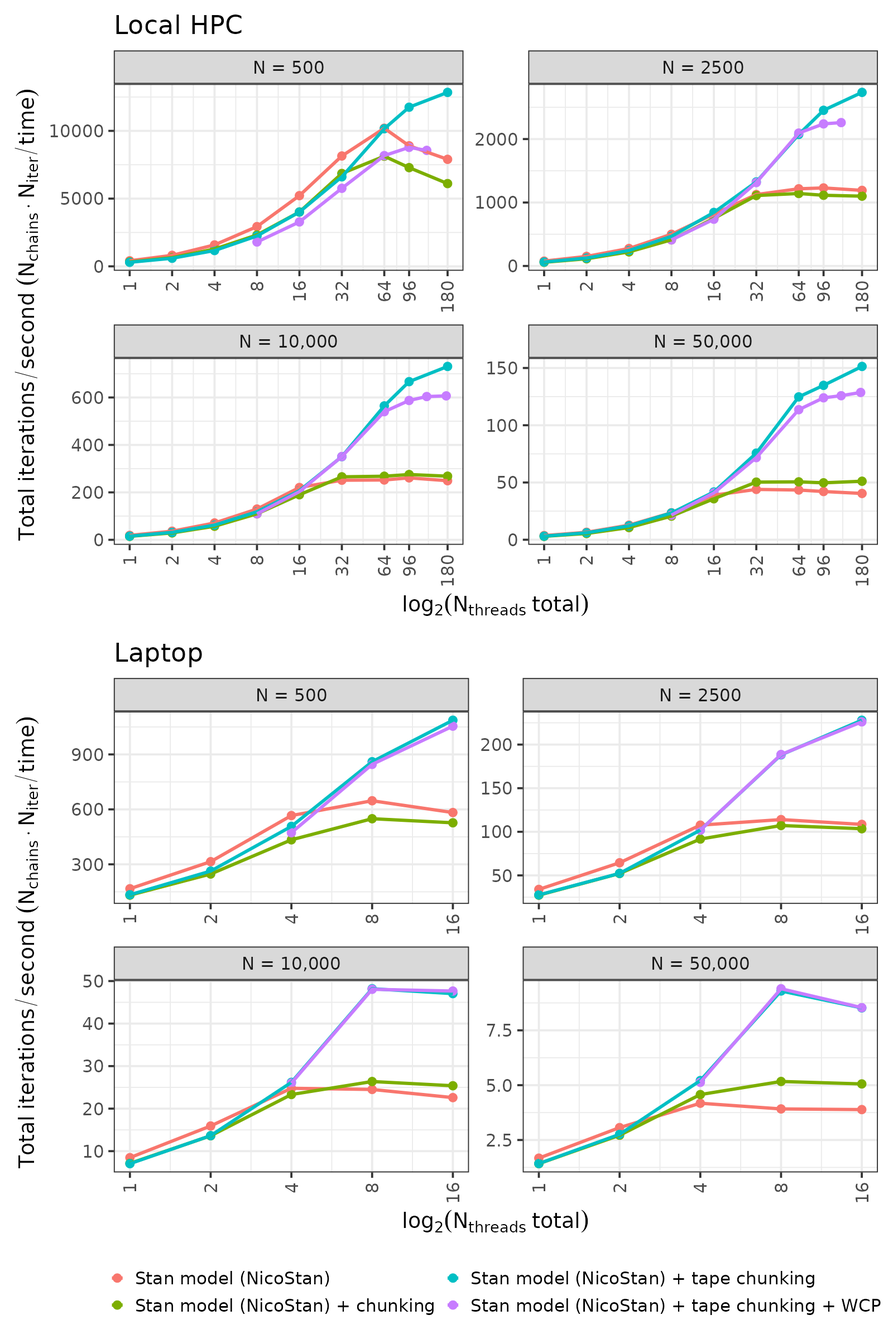
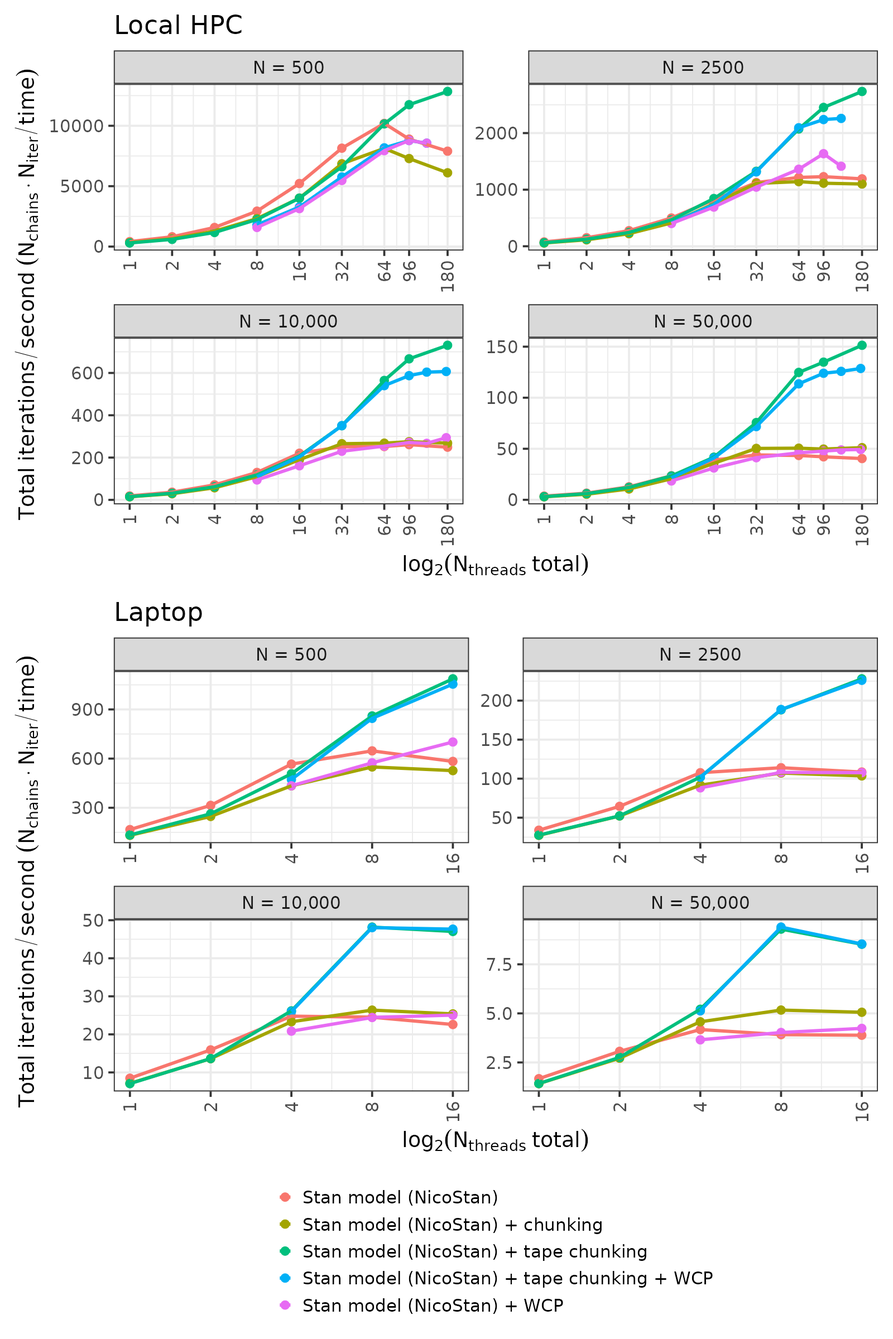
Paper 1 code, results and web page

diff --git a/docs/index.html b/docs/index.html
@@ -1,20 +1,20 @@
 <!doctype html><html lang="en"><head><meta charset="utf-8"><meta name="viewport" content="width=device-width,initial-scale=1">
 <title>Cache-aware chunking dramatically improves parallel scaling for HMC with autodiff and manual gradients: Application to multivariate probit model in Stan and NicoStan/BayesMVP</title><meta name="description" content="Code, results and figures for the paper: Cache-aware chunking dramatically improves parallel scaling for HMC with autodiff and manual gradients: Application to multivariate probit model in Stan and NicoStan/BayesMVP">
-<meta property="og:type" content="website"><meta property="og:url" content="https://cerulloe1996.github.io/cache_aware_chunking_HMC/"><meta property="og:title" content="Cache-aware chunking dramatically improves parallel scaling for HMC with autodiff and manual gradients: Application to multivariate probit model in Stan and NicoStan/BayesMVP"><meta property="og:description" content="Code, results and figures for the paper: Cache-aware chunking dramatically improves parallel scaling for HMC with autodiff and manual gradients: Application to multivariate probit model in Stan and NicoStan/BayesMVP"><meta property="og:image" content="https://cerulloe1996.github.io/cache_aware_chunking_HMC/assets/figures/Figure_N_chunks_pilot_study_plot_1_n_threads_HPC_96_Laptop_8.png"><meta name="twitter:card" content="summary_large_image">
+<meta property="og:type" content="website"><meta property="og:url" content="https://cerulloe1996.github.io/cache_aware_chunking_HMC/"><meta property="og:title" content="Cache-aware chunking dramatically improves parallel scaling for HMC with autodiff and manual gradients: Application to multivariate probit model in Stan and NicoStan/BayesMVP"><meta property="og:description" content="Code, results and figures for the paper: Cache-aware chunking dramatically improves parallel scaling for HMC with autodiff and manual gradients: Application to multivariate probit model in Stan and NicoStan/BayesMVP"><meta property="og:image" content="https://cerulloe1996.github.io/cache_aware_chunking_HMC/assets/figures/Figure_N_chunks_pilot_study_plot_1_n_threads_SMT_vs_no_SMT_cache_lines.png"><meta name="twitter:card" content="summary_large_image">
 <meta name="theme-color" content="#282A36"><link rel="stylesheet" href="assets/site.css"><script src="assets/site.js" defer></script><script data-goatcounter="https://cerulloe1996.goatcounter.com/count" async src="https://gc.zgo.at/count.js"></script></head><body>
 <a class="skip-link" href="#content">Skip to content</a><header class="masthead"><a class="brand" href="#top">Cache-aware chunking for HMC</a><nav aria-label="Primary"><a href="#abstract">Abstract</a><a href="#how-to-cite">Cite</a><a href="https://github.com/CerulloE1996/cache_aware_chunking_HMC">GitHub ↗</a></nav></header>
-<div class="hero paper-hero" id="top"><div class="hero-copy"><p class="eyebrow">Research paper · 2026</p><h1>Cache-aware chunking dramatically improves parallel scaling for HMC with autodiff and manual gradients: Application to multivariate probit model in Stan and NicoStan/BayesMVP</h1><p class="hero-intro">Enzo Cerullo¹, Olivia Carter², Charles Margossian³, Hayley E Jones⁴, Tim Lucas¹, Nicola J. Cooper¹, Alex J. Sutton¹</p><p class="byline">¹ Biostatistics Research Group, Division of Public Health &amp; Epidemiology, School of Medical Sciences, University of Leicester, Leicester, UK<br>² Queen&#x27;s Veterinary School Hospital, Cambridge, University of Cambridge, UK<br>³ Flatiron Institute, Center for Computational Mathematics, USA<br>⁴ Population Health Sciences, Bristol Medical School, University of Bristol, UK</p><div class="hero-actions"><a class="button" href="https://github.com/CerulloE1996/cache_aware_chunking_HMC">Code and results <span aria-hidden="true">↗</span></a></div></div></div>
+<div class="hero paper-hero" id="top"><div class="hero-copy"><p class="eyebrow">Research paper · 2026</p><h1>Cache-aware chunking dramatically improves parallel scaling for HMC with autodiff and manual gradients: Application to multivariate probit model in Stan and NicoStan/BayesMVP</h1><p class="hero-intro">Enzo Cerullo¹, Olivia Carter², Hayley E Jones³, Tim Lucas¹, Nicola J. Cooper¹, Alex J. Sutton¹</p><p class="byline">¹ Biostatistics Research Group, Division of Public Health &amp; Epidemiology, School of Medical Sciences, University of Leicester, Leicester, UK<br>² Queen&#x27;s Veterinary School Hospital, Cambridge, University of Cambridge, UK<br>³ Population Health Sciences, Bristol Medical School, University of Bristol, UK</p><div class="hero-actions"><a class="button" href="https://github.com/CerulloE1996/cache_aware_chunking_HMC">Code and results <span aria-hidden="true">↗</span></a></div></div></div>
 <div class="layout"><aside><details open><summary>On this page</summary><nav aria-label="On this page"><a href="#abstract">Abstract</a><a href="#key-results">Key results</a><a href="#repository-contents">Repository contents</a><a href="#reproducing-the-results">Reproducing the results</a><a href="#related-software">Related software</a><a href="#how-to-cite">How to cite</a></nav></details></aside><main id="content"><section class="doc-section" id="abstract"><h2>Abstract</h2>
 <p>We show that cache-aware chunking - a technique used in high-performance computing, but novel in the context of MCMC sampling - can yield large improvements in parallel scaling. Applied to the LC-MVP model implemented in NicoStan+BayesMVP, on a 96-core server, chunking was up to ~17.5× faster, and on a consumer laptop it was up to ~11.9× faster, with the optimal chunk count depending on dataset size and the allocation of threads.</p>
 <p>These gains are due to a shift in the computational bottleneck: without chunking, the <code>lp_grad()</code> evaluation is memory-bandwidth-bound, leaving no room for additional threads to contribute. With chunking, more of the data fits within the L2/L3 caches, shifting the computation to a more compute-bound regime. This has an important consequence for simultaneous multithreading (SMT): HMC workloads typically see no benefit - or even degradation - from SMT, whereas chunked NicoStan+BayesMVP achieved SMT efficiency gains of ~20% - 29% on a 96-core AMD server CPU (AMD EPYC 9654), and ~9% - 22% on an 8-core laptop (AMD Ryzen 5800H) - both without 3D V-Cache.</p>
 <p>Our results suggested three computational profiles - bandwidth-bound (plain Stan, and NicoStan+BayesMVP without chunking), compute-bound (NicoStan+BayesMVP with chunking), and latency-bound (Mplus) - with predictable consequences for parallel scaling and SMT behaviour.</p>
-<p>These parallel scaling results should be interpreted alongside raw efficiency: NicoStan+BayesMVP with chunking is approximately 50× and 190× faster than Mplus and Stan, respectively, in time to achieve a target ESS (at N = 10,000).</p>
+<p>These parallel scaling results should be interpreted alongside raw efficiency: NicoStan+BayesMVP with chunking is approximately [TBD]× and [TBD]× faster than Mplus and Stan, respectively, in time to achieve a target ESS (at N = 10,000; final values to follow).</p>
 <p>Looking ahead, CPUs with larger L3 caches - such as AMD&#x27;s 3D V-Cache line - would likely amplify these benefits. Furthermore, tape chunking improved the parallel scaling of the Stan model in this study; similar strategies applied to the Stan math C++ library may improve parallel scaling for general Stan models.</p>
 <p>The full BayesMVP algorithm and benchmarks, and acceleration of arbitrary Stan models via NicoStan (with preliminary speed-ups of ~1.5-15×), will be described in two upcoming papers.</p>
 </section>
 <section class="doc-section" id="key-results"><h2>Key results</h2>
-<figure class="paper-figure"><a href="assets/figures/Figure_N_chunks_pilot_study_plot_1_n_threads_HPC_96_Laptop_8.png"><img src="assets/figures/Figure_N_chunks_pilot_study_plot_1_n_threads_HPC_96_Laptop_8.png" alt="Figure 1" loading="lazy"></a><figcaption><strong>Figure 1:</strong> Mean NicoStan+BayesMVP sampling time (seconds) against the number of chunks, for N = 500, 2,500, 10,000 and 50,000. Direct comparison of HPC (96 threads, solid lines), and laptop (8 threads, dashed lines), with error bars showing the standard deviation across 4 runs.</figcaption></figure>
-<figure class="paper-figure"><a href="assets/figures/Figure_ps2_plot_2_adj_scalability.png"><img src="assets/figures/Figure_ps2_plot_2_adj_scalability.png" alt="Figure 2" loading="lazy"></a><figcaption><strong>Figure 2:</strong> Normalised parallel scaling for each algorithm, computed as: (N_chains/second) × T_0, where T_0 is the time of each algorithm&#x27;s own one-chain, one-thread reference at the same number of iterations (for WCP, the corresponding implementation without WCP); i.e., the speed-up over the one-chain, one-thread reference, as defined in the paper (with the same reference as the paper&#x27;s parallel efficiency tables). Note: this normalisation removes absolute speed differences between algorithms, allowing direct comparison of how well each algorithm&#x27;s performance scales with additional threads, but relative to its own baseline. Top half: HPC (1-180 threads; WCP allocations from 8 up to 128 or 176 threads). Bottom half: Laptop (1-16 threads; WCP allocations from 4 threads). Higher values indicate greater throughput. The dashed grey line shows perfect linear scaling (i.e., speed-up = number of threads). Note: these results reflect parallelisation behaviour only, and do not account for differences in effective sample size (ESS) per second between algorithms; a method that scales perfectly here may still require more total computation to achieve equivalent posterior precision.</figcaption></figure>
+<figure class="paper-figure"><a href="assets/figures/Figure_N_chunks_pilot_study_plot_1_n_threads_SMT_vs_no_SMT_cache_lines.png"><img src="assets/figures/Figure_N_chunks_pilot_study_plot_1_n_threads_SMT_vs_no_SMT_cache_lines.png" alt="Figure 1" loading="lazy"></a><figcaption><strong>Figure 1:</strong> Mean NicoStan+BayesMVP sampling time (seconds) against the number of chunks (log scale), for N = 500, 2,500, 10,000 and 50,000. Direct comparison of HPC (solid lines) and laptop (dashed lines), without SMT (HPC: 96 threads, laptop: 8 threads; blue lines) and with SMT (HPC: 180 threads, laptop: 16 threads; orange lines), with error bars showing the standard deviation across 4 runs. The vertical lines show the number of chunks at which one chunk (1,608 bytes per individual) first fits within the L3 or L2 cache per active thread, in the colour and line type of the corresponding data line; to the left of an L3 line, one chunk no longer fits within the L3 cache per active thread.</figcaption></figure>
+<figure class="paper-figure"><a href="assets/figures/Figure_ps2_plot_2_adj_scalability_markers.png"><img src="assets/figures/Figure_ps2_plot_2_adj_scalability_markers.png" alt="Figure 2" loading="lazy"></a><figcaption><strong>Figure 2:</strong> Normalised parallel scaling for each algorithm, computed as: (N_chains/second) × T_0, where T_0 is the time of each algorithm&#x27;s own one-chain, one-thread reference at the same number of iterations (for WCP, the corresponding implementation without WCP); i.e., the speed-up over the one-chain, one-thread reference, as defined in the paper (with the same reference as the paper&#x27;s parallel efficiency tables). Note: this normalisation removes absolute speed differences between algorithms, allowing direct comparison of how well each algorithm&#x27;s performance scales with additional threads, but relative to its own baseline. Top half: HPC (1-180 threads; WCP allocations from 8 up to 128 or 176 threads). Bottom half: Laptop (1-16 threads; WCP allocations from 4 threads). Higher values indicate greater throughput. The dashed grey line shows perfect linear scaling (i.e., speed-up = number of threads). The dotted vertical lines mark 96 threads (HPC) and 8 threads (laptop), above which SMT is used. Note: these results reflect parallelisation behaviour only, and do not account for differences in effective sample size (ESS) per second between algorithms; a method that scales perfectly here may still require more total computation to achieve equivalent posterior precision.</figcaption></figure>
 </section>
 <section class="doc-section" id="repository-contents"><h2>Repository contents</h2>
 <div class="table-scroll" role="region" aria-label="Folder table" tabindex="0"><table><thead><tr><th>Folder</th><th>Contents</th></tr></thead><tbody><tr><td><code>paper_1_chunking_and_parallel_scalability/</code></td><td>The R scripts for the benchmarks, figures and tables (see <a href="#reproducing-the-results">Reproducing the results</a>), the Stan models (<code>stan_models/</code>: the unpartitioned model, <code>LC_MVP_bin_PartialLog_v5.stan</code>; the chunked model used for the Stan + chunking configurations, <code>LC_MVP_bin_PartialLog_v5_chunked.stan</code>; and the model used for the Stan tape-chunking and WCP configurations, <code>LC_MVP_bin_PartialLog_v5_reduce_sum_static.stan</code>), and the saved study summaries (<code>paper_1_computational_outputs/</code>, <code>burnin_outputs/</code>)</td></tr><tr><td><code>paper_1_chunking_and_parallel_scalability/mechanism_study/</code></td><td>The counter programs (C), run scripts, case lists, and the measured counts and times for the hardware-counter profiling study (Experiment 4)</td></tr><tr><td><code>0_utilities/</code></td><td>Shared R functions, including the simulation of the COVID-19-based LC-MVP datasets and the Stan compilation settings</td></tr><tr><td><code>1_appendix_pilot_studies/</code></td><td>The Mplus and Stan pilot-study results, and the NicoStan+BayesMVP pilot-study functions, used for the absolute efficiency comparison (Experiment 3)</td></tr><tr><td><code>results/data/</code></td><td>CSV files with every measured configuration (e.g., <code>measured_cases.csv</code>, <code>configurations.csv</code>, <code>scaling.csv</code>, <code>wcp_chunk_search.csv</code>)</td></tr><tr><td><code>results/figures/</code>, <code>results/tables/</code></td><td>The figures and tables in the paper and its supplementary material</td></tr></tbody></table></div>
@@ -31,7 +31,7 @@
 <section class="doc-section" id="how-to-cite"><h2>How to cite</h2>
 <div class="code-block"><button class="copy-code" type="button" aria-label="Copy">Copy</button><pre><code class="language-bibtex">@misc{Cerullo_2026_cache_aware_chunking,
   title  = {Cache-aware chunking dramatically improves parallel scaling for {HMC} with autodiff and manual gradients: Application to multivariate probit model in {Stan} and {NicoStan}/{BayesMVP}},
-  author = {Cerullo, Enzo and Carter, Olivia and Margossian, Charles and Jones, Hayley E. and Lucas, Tim and Cooper, Nicola J. and Sutton, Alex J.},
+  author = {Cerullo, Enzo and Carter, Olivia and Jones, Hayley E. and Lucas, Tim and Cooper, Nicola J. and Sutton, Alex J.},
   year   = {2026}
 }</code></pre></div>
 </section></main></div>

diff --git a/results/tables/table_Exp3_absolute_efficiency_HPC.tex b/results/tables/table_Exp3_absolute_efficiency_HPC.tex
@@ -8,7 +8,8 @@
 \caption{
 \footnotesize{
 % Experiment 3 on the HPC: estimated time to the target minimum ESS over sensitivities, specificities and prevalence. Targets are 7000, 2500 and 1000 across the three sample sizes. Stan entries are means over fifteen runs and exclude unrecorded posterior-summary costs, so their total times and speed-up ratios are conservative lower bounds; the BayesMVP entries are means over three runs of each selected configuration. Mplus uses the mean estimated total time from three PS5 runs at each sample size, scaling its full run time to retain its half-run burn-in allocation. Ratios are reported only for the same device and sample size.
-Experiment 3 on the HPC: estimated time to the target minimum ESS over sensitivities, specificities and prevalence. Targets are 7000, 2500 and 1000 across the three sample sizes. Stan entries are means over three runs of the selected Stan configuration (the asymmetric burn-in: 250 burn-in iterations with 4 chains and the unpartitioned model, then 250 sampling iterations with 96 chains at $N=500$ and 64 chains at $N=2500$ and $10,000$, with tape chunking; see section \ref{section:paper1_absolute_efficiency_design}), including the recorded posterior-summary times; the NicoStan+BayesMVP entries are means over three runs of each selected configuration. Mplus uses the mean estimated total time from three PS5 runs at each sample size, scaling its full run time to retain its half-run burn-in allocation. Ratios are reported only for the same device and sample size.
+% Experiment 3 on the HPC: estimated time to the target minimum ESS over sensitivities, specificities and prevalence. Targets are 7000, 2500 and 1000 across the three sample sizes. Stan entries are means over three runs of the selected Stan configuration (the asymmetric burn-in: 250 burn-in iterations with 4 chains and the unpartitioned model, then 250 sampling iterations with 96 chains at $N=500$ and 64 chains at $N=2500$ and $10,000$, with tape chunking; see section \ref{section:paper1_absolute_efficiency_design}), including the recorded posterior-summary times; the NicoStan+BayesMVP entries are means over three runs of each selected configuration. Mplus uses the mean estimated total time from three PS5 runs at each sample size, scaling its full run time to retain its half-run burn-in allocation. Ratios are reported only for the same device and sample size.
+Experiment 3 on the HPC: estimated time to the target minimum ESS over sensitivities, specificities and prevalence. Targets are 7000, 2500 and 1000 across the three sample sizes. Stan entries are means over three runs of the selected Stan configuration (the asymmetric burn-in: 250 burn-in iterations with 4 chains and the unpartitioned model, then 250 sampling iterations with 96 chains at $N=500$ and 64 chains at $N=2500$ and $10,000$, with tape chunking; see section \ref{section:paper1_absolute_efficiency_design}), including the recorded posterior-summary times; the NicoStan+BayesMVP entries are means over three runs of each selected configuration. Mplus uses the mean estimated total time from three runs at each sample size (see section \ref{section:paper1_absolute_efficiency_design}), scaling its full run time to retain its half-run burn-in allocation. Speed-up is the time of each software divided by that of NicoStan+BayesMVP (i.e., the speed-up of NicoStan+BayesMVP over that software). Ratios are reported only for the same device and sample size.
 }}
 %%%%
 \label{S:table:exp3_absolute_efficiency_hpc}
@@ -25,12 +26,16 @@ Experiment 3 on the HPC: estimated time to the target minimum ESS over sensitivi
 % BayesMVP & \textbf{7.66 s} & 1$\times$ & \textbf{4.71 s} & 1$\times$ & \textbf{11.64 s} & 1$\times$ \\
 % BayesMVP & \textbf{2.27 s} & 1$\times$ & \textbf{3.63 s} & 1$\times$ & \textbf{10.51 s} & 1$\times$ \\
 % NicoStan+BayesMVP & \textbf{2.27 s} & 1$\times$ & \textbf{3.63 s} & 1$\times$ & \textbf{10.51 s} & 1$\times$ \\
-NicoStan+BayesMVP & \textbf{2.27 s} & 1$\times$ & \textbf{3.30 s} & 1$\times$ & \textbf{10.51 s} & 1$\times$ \\
+% NicoStan+BayesMVP & \textbf{2.27 s} & 1$\times$ & \textbf{3.30 s} & 1$\times$ & \textbf{10.51 s} & 1$\times$ \\
+NicoStan+BayesMVP & \textbf{\EthreeTBD{} s} & 1$\times$ & \textbf{\EthreeTBD{} s} & 1$\times$ & \textbf{\EthreeTBD{} s} & 1$\times$ \\
 % Stan (NUTS) & 49.58 s & $6-7\times$ & 2996 s (49.9 min) & $600-700\times$ & 35,462 s (591.0 min) & $3050\times$ \\
 % Stan (NUTS) & 49.58 s & $20-25\times$ & 2996 s (49.9 min) & $800-850\times$ & 35,462 s (591.0 min) & $3370\times$ \\
-Stan (NUTS) & 42.01 s & $18.5\times$ & 242.07 s (4.03 min) & $65-75\times$ & 1974 s (32.9 min) & $190\times$ \\
+% Stan (NUTS) & 42.01 s & $18.5\times$ & 242.07 s (4.03 min) & $65-75\times$ & 1974 s (32.9 min) & $190\times$ \\
+% Stan (NUTS) & 42.01 s & $\EthreeTBD{}\times$ & 242.07 s (4.03 min) & $\EthreeTBD{}\times$ & 1974 s (32.9 min) & $\EthreeTBD{}\times$ \\
+Stan (NUTS) & \EthreeTBD{} s & $\EthreeTBD{}\times$ & \EthreeTBD{} s & $\EthreeTBD{}\times$ & \EthreeTBD{} s & $\EthreeTBD{}\times$ \\
 % Mplus (PX-Gibbs) & 36.03 s & $5\times$ & 110.20 s (1.84 min) & $20-25\times$ & 520.52 s (8.68 min) & $40-50\times$ \\
-Mplus (PX-Gibbs) & 36.03 s & $16\times$ & 110.20 s (1.84 min) & $25-35\times$ & 520.52 s (8.68 min) & $45-55\times$ \\
+% Mplus (PX-Gibbs) & 36.03 s & $16\times$ & 110.20 s (1.84 min) & $25-35\times$ & 520.52 s (8.68 min) & $45-55\times$ \\
+Mplus (PX-Gibbs) & 36.03 s & $\EthreeTBD{}\times$ & 110.20 s (1.84 min) & $\EthreeTBD{}\times$ & 520.52 s (8.68 min) & $\EthreeTBD{}\times$ \\
 %%%%
 \bottomrule
 %%%%

diff --git a/results/tables/table_mplus_modes.tex b/results/tables/table_mplus_modes.tex
@@ -1,0 +1,31 @@
+\begin{table}[htbp]
+\centering
+\small
+% \caption{Within-Mplus adjusted-time ratio, FBITERATIONS/BITERATIONS, at matched processor allocations and requested iteration budgets. Each ratio compares the median of three repeats in each mode. Entries give the median ratio across allocations, with the range in parentheses; a ratio above one means that FBITERATIONS took longer. Times are normalised to the requested long-run count using the verified saved-draw count, as described in section \ref{section:paper1_mplus_timing_design}.}
+% \caption{Within-Mplus adjusted-time ratio, FBITERATIONS/BITERATIONS, at matched processor allocations and requested iteration budgets. Each ratio compares the mean of three repeats in each mode. Entries give the median ratio across allocations, with the range in parentheses; a ratio above one means that FBITERATIONS took longer. Times are normalised to the requested long-run count using the verified saved-draw count, as described in section \ref{section:paper1_mplus_timing_design}.}
+\caption{Within-Mplus adjusted-time ratio, FBITERATIONS/BITERATIONS, at matched processor allocations and requested iteration budgets. Each ratio compares the mean of three repeats in each mode. Entries give the median ratio across allocations, with the range in parentheses; a ratio above one means that FBITERATIONS took longer. Times are normalised to the requested long-run count using the number of iterations which Mplus actually ran in the long run ($n_l^{\mathrm{obs}}$; equation \ref{eq:paper1_mplus_timing}), as described in section \ref{section:paper1_mplus_timing_design}.}
+\label{table:paper1_mplus_modes}
+\begin{tabular}{llcc}
+\toprule
+Device & $N$ & Standard & WCP \\
+\midrule
+% HPC & 500 & 1.045 (0.920 - 1.376) & 1.075 (0.983 - 1.110) \\
+HPC & 500 & 1.027 (0.946 - 1.346) & 1.053 (1.017 - 1.095) \\
+% HPC & 2,500 & 1.037 (0.969 - 1.313) & 1.034 (0.966 - 1.145) \\
+HPC & 2,500 & 1.026 (0.991 - 1.306) & 1.068 (0.957 - 1.114) \\
+% HPC & 10,000 & 1.000 (0.960 - 1.193) & 1.025 (0.910 - 1.256) \\
+HPC & 10,000 & 0.995 (0.957 - 1.191) & 1.053 (0.891 - 1.176) \\
+% HPC & 50,000 & 1.011 (0.963 - 1.177) & 1.027 (0.737 - 1.117) \\
+HPC & 50,000 & 1.014 (0.957 - 1.128) & 1.030 (0.761 - 1.157) \\
+\midrule
+% Laptop & 500 & 0.994 (0.991 - 1.022) & 1.004 (0.962 - 1.011) \\
+Laptop & 500 & 1.004 (0.977 - 1.021) & 1.004 (0.947 - 1.015) \\
+% Laptop & 2,500 & 0.994 (0.964 - 1.016) & 1.003 (0.973 - 1.016) \\
+Laptop & 2,500 & 0.996 (0.989 - 1.017) & 1.008 (0.982 - 1.079) \\
+% Laptop & 10,000 & 1.008 (1.004 - 1.015) & 1.004 (0.990 - 1.018) \\
+Laptop & 10,000 & 1.005 (1.004 - 1.014) & 1.009 (0.934 - 1.025) \\
+% Laptop & 50,000 & 1.000 (0.985 - 1.006) & 1.007 (0.988 - 1.044) \\
+Laptop & 50,000 & 1.000 (0.984 - 1.007) & 1.002 (0.988 - 1.059) \\
+\bottomrule
+\end{tabular}
+\end{table}

diff --git a/results/tables/table_WCP_selected_chunks.tex b/results/tables/table_WCP_selected_chunks.tex
@@ -1,0 +1,59 @@
+%%%%
+%%%%
+\begin{table}[H]
+%%%%
+\centering
+\small
+%%%%
+\caption{
+\footnotesize{
+Selected $N_{\text{chunks}}$ for the chunking + WCP configurations of BayesMVP (\texttt{MD\_BayesMVP\_WCP\_chunking}) and the Stan model (\texttt{AD\_Stan\_WCP\_chunking}), for each device, allocation ($N_{\text{chains}} \times N_{\text{threads\_per\_chain}}$) and $N$ (i.e., the $N_{\text{chunks}}$ with the lowest mean run time for that allocation; see section \ref{section:paper1_chunk_wcp_selection_design}). Hyphens mark allocations which were not tested at that $N$.
+}}
+%%%%
+\label{S:table:WCP_selected_chunks}
+%%%%
+\PaperOneFitTable{
+\begin{tabular}{llrrrrrrrr}
+%%%%
+\toprule
+%%%%
+ & & \multicolumn{4}{c}{BayesMVP ($N$)} & \multicolumn{4}{c}{Stan model ($N$)} \\
+\cmidrule(lr){3-6} \cmidrule(lr){7-10}
+Device & $N_{\text{chains}} \times N_{\text{threads\_per\_chain}}$ & $500$ & $2500$ & $10,000$ & $50,000$ & $500$ & $2500$ & $10,000$ & $50,000$ \\
+%%%%
+\midrule
+%%%%
+local-HPC & $4 \times 2$ & 4 & 4 & 10 & 50 & 4 & 4 & 10 & 50 \\
+ & $4 \times 4$ & 4 & 4 & 50 & 100 & 10 & 10 & 25 & 100 \\
+ & $4 \times 8$ & 8 & 8 & 8 & 250 & 10 & 10 & 50 & 250 \\
+ & $4 \times 16$ & - & - & 50 & 50 & - & - & 100 & 250 \\
+ & $4 \times 24$ & - & - & 24 & 24 & - & - & 100 & 250 \\
+ & $4 \times 32$ & - & - & 50 & 500 & - & - & 100 & 250 \\
+ & $4 \times 44$ & - & - & 44 & 44 & - & - & 44 & 500 \\
+ & $8 \times 2$ & 2 & 10 & 10 & 50 & 4 & 4 & 10 & 50 \\
+ & $8 \times 4$ & 4 & 4 & 50 & 100 & 10 & 10 & 25 & 250 \\
+ & $8 \times 8$ & 8 & 8 & 8 & 50 & 8 & 25 & 100 & 250 \\
+ & $8 \times 12$ & - & - & 50 & 100 & - & - & 50 & 250 \\
+ & $8 \times 16$ & - & - & 16 & 100 & - & - & 50 & 500 \\
+ & $8 \times 22$ & - & - & 25 & 100 & - & - & 100 & 500 \\
+ & $16 \times 2$ & 2 & 4 & 10 & 100 & 4 & 10 & 25 & 250 \\
+ & $16 \times 4$ & 4 & 4 & 25 & 100 & 10 & 10 & 50 & 250 \\
+ & $16 \times 6$ & 6 & 6 & 50 & 100 & 6 & 25 & 50 & 250 \\
+ & $16 \times 8$ & 8 & 8 & 25 & 100 & 8 & 25 & 100 & 500 \\
+ & $16 \times 11$ & - & - & 25 & 100 & - & - & 100 & 500 \\
+\midrule
+Laptop & $2 \times 2$ & 2 & 4 & 10 & 50 & 4 & 10 & 50 & 500 \\
+ & $2 \times 4$ & 4 & 4 & 50 & 100 & 10 & 25 & 100 & 500 \\
+ & $2 \times 8$ & 8 & 8 & 50 & 250 & 10 & 50 & 100 & 500 \\
+ & $4 \times 2$ & 2 & 10 & 50 & 100 & 10 & 25 & 100 & 500 \\
+ & $4 \times 4$ & 4 & 25 & 50 & 100 & 10 & 50 & 100 & 500 \\
+ & $8 \times 2$ & 2 & 10 & 50 & 250 & 10 & 50 & 100 & 500 \\
+%%%%
+\bottomrule
+%%%%
+\end{tabular}
+}
+%%%%
+\end{table}
+%%%%
+%%%%

diff --git a/README.md b/README.md
@@ -31,7 +31,7 @@ This has an important consequence for simultaneous multithreading (SMT): HMC wor
 
 Our results suggested three computational profiles - bandwidth-bound (plain Stan, and NicoStan+BayesMVP without chunking), compute-bound (NicoStan+BayesMVP with chunking), and latency-bound (Mplus) - with predictable consequences for parallel scaling and SMT behaviour.
 
-These parallel scaling results should be interpreted alongside raw efficiency: NicoStan+BayesMVP with chunking is approximately 50× and 190× faster than Mplus and Stan, respectively, in time to achieve a target ESS (at N = 10,000).
+These parallel scaling results should be interpreted alongside raw efficiency: NicoStan+BayesMVP with chunking is approximately [TBD]× and [TBD]× faster than Mplus and Stan, respectively, in time to achieve a target ESS (at N = 10,000; final values to follow).
 
 Looking ahead, CPUs with larger L3 caches - such as AMD's 3D V-Cache line - would likely amplify these benefits.
 Furthermore, tape chunking improved the parallel scaling of the Stan model in this study; similar strategies applied to the Stan math C++ library may improve parallel scaling for general Stan models.
@@ -43,13 +43,13 @@ The full BayesMVP algorithm and benchmarks, and acceleration of arbitrary Stan m
 ## Key results
 <!-- ------------------------------------------------------------------------------------------------------------------------------- -->
 
-![Figure 1](results/figures/Figure_N_chunks_pilot_study_plot_1_n_threads_HPC_96_Laptop_8.png)
+![Figure 1](results/figures/Figure_N_chunks_pilot_study_plot_1_n_threads_SMT_vs_no_SMT_cache_lines.png)
 
-*Figure 1: Mean NicoStan+BayesMVP sampling time (seconds) against the number of chunks, for N = 500, 2,500, 10,000 and 50,000. Direct comparison of HPC (96 threads, solid lines), and laptop (8 threads, dashed lines), with error bars showing the standard deviation across 4 runs.*
+*Figure 1: Mean NicoStan+BayesMVP sampling time (seconds) against the number of chunks (log scale), for N = 500, 2,500, 10,000 and 50,000. Direct comparison of HPC (solid lines) and laptop (dashed lines), without SMT (HPC: 96 threads, laptop: 8 threads; blue lines) and with SMT (HPC: 180 threads, laptop: 16 threads; orange lines), with error bars showing the standard deviation across 4 runs. The vertical lines show the number of chunks at which one chunk (1,608 bytes per individual) first fits within the L3 or L2 cache per active thread, in the colour and line type of the corresponding data line; to the left of an L3 line, one chunk no longer fits within the L3 cache per active thread.*
 
-![Figure 2](results/figures/Figure_ps2_plot_2_adj_scalability.png)
+![Figure 2](results/figures/Figure_ps2_plot_2_adj_scalability_markers.png)
 
-*Figure 2: Normalised parallel scaling for each algorithm, computed as: (N_chains/second) × T_0, where T_0 is the time of each algorithm's own one-chain, one-thread reference at the same number of iterations (for WCP, the corresponding implementation without WCP); i.e., the speed-up over the one-chain, one-thread reference, as defined in the paper (with the same reference as the paper's parallel efficiency tables). Note: this normalisation removes absolute speed differences between algorithms, allowing direct comparison of how well each algorithm's performance scales with additional threads, but relative to its own baseline. Top half: HPC (1-180 threads; WCP allocations from 8 up to 128 or 176 threads). Bottom half: Laptop (1-16 threads; WCP allocations from 4 threads). Higher values indicate greater throughput. The dashed grey line shows perfect linear scaling (i.e., speed-up = number of threads). Note: these results reflect parallelisation behaviour only, and do not account for differences in effective sample size (ESS) per second between algorithms; a method that scales perfectly here may still require more total computation to achieve equivalent posterior precision.*
+*Figure 2: Normalised parallel scaling for each algorithm, computed as: (N_chains/second) × T_0, where T_0 is the time of each algorithm's own one-chain, one-thread reference at the same number of iterations (for WCP, the corresponding implementation without WCP); i.e., the speed-up over the one-chain, one-thread reference, as defined in the paper (with the same reference as the paper's parallel efficiency tables). Note: this normalisation removes absolute speed differences between algorithms, allowing direct comparison of how well each algorithm's performance scales with additional threads, but relative to its own baseline. Top half: HPC (1-180 threads; WCP allocations from 8 up to 128 or 176 threads). Bottom half: Laptop (1-16 threads; WCP allocations from 4 threads). Higher values indicate greater throughput. The dashed grey line shows perfect linear scaling (i.e., speed-up = number of threads). The dotted vertical lines mark 96 threads (HPC) and 8 threads (laptop), above which SMT is used. Note: these results reflect parallelisation behaviour only, and do not account for differences in effective sample size (ESS) per second between algorithms; a method that scales perfectly here may still require more total computation to achieve equivalent posterior precision.*
 
 
 <!-- ------------------------------------------------------------------------------------------------------------------------------- -->
@@ -105,7 +105,7 @@ Hence, `alg_paper_1_experiment_3_table.R` also needs the saved outputs of our Ni
 ```bibtex
 @misc{Cerullo_2026_cache_aware_chunking,
   title  = {Cache-aware chunking dramatically improves parallel scaling for {HMC} with autodiff and manual gradients: Application to multivariate probit model in {Stan} and {NicoStan}/{BayesMVP}},
-  author = {Cerullo, Enzo and Carter, Olivia and Margossian, Charles and Jones, Hayley E. and Lucas, Tim and Cooper, Nicola J. and Sutton, Alex J.},
+  author = {Cerullo, Enzo and Carter, Olivia and Jones, Hayley E. and Lucas, Tim and Cooper, Nicola J. and Sutton, Alex J.},
   year   = {2026}
 }
 ```
